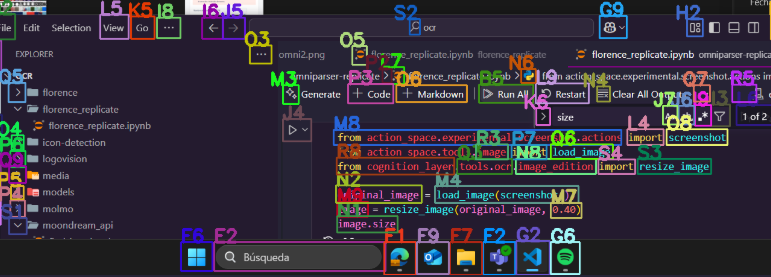
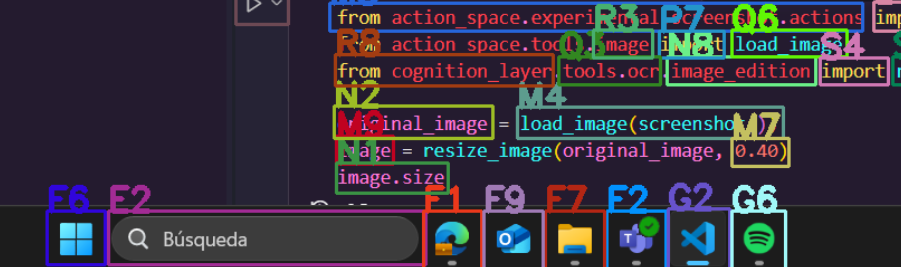
Added section for Theoretical Approximation

diff --git a/content/theory.tex b/content/theory.tex
@@ -1,2 +1,93 @@
 % !TEX root = ms.tex
 \chapter{Fundamento Teórico}
+
+\section{Maquina de Cognición-Ejecución (MCE)}
+
+Una \textit{Máquina de Cognición-Ejecución} (MCE) es un modelo computacional hipotético que opera sobre un sistema cognitivo con el objetivo de generar soluciones, compuestas por secuencias de acciones, a problemas bien definidos en un espacio formal. Este concepto se fundamenta en la idea de que la cognición puede ser modelada computacionalmente como un proceso de transformación entre representaciones abstractas de problemas y secuencias de acciones eficaces.
+
+\begin{itemize}
+    \item La MCE no presupone una arquitectura específica, sino una relación funcional entre problemas, soluciones y acciones.
+    \item El sistema cognitivo actúa como un mapeador entre interpretaciones de problemas y soluciones viables dentro de un conjunto estructurado.
+    \item La hipótesis de unicidad e irreductibilidad de la representación de problemas busca eliminar ambigüedades y redundancias en el espacio de entrada.
+\end{itemize}
+
+Sea $\mathbb{P}$ un conjunto infinito e hipotético de problemas. Cada problema $p \in \mathbb{P}$ es independiente y mutuamente exclusivo respecto de los demás, es decir,
+
+\[
+\forall p_i, p_j \in \mathbb{P}, \; p_i \ne p_j \Rightarrow \neg (p_i \equiv p_j)
+\]
+
+donde $\equiv$ denota equivalencia semántica bajo una interpretación cognitiva. Asumimos que cada problema $p$ está representado mediante una descripción única e irreducible, la cual no admite ambigüedad ni redundancia y es inconfundible con cualquier otro $p' \in \mathbb{P}$.
+
+Sea $\mathbb{A}$ un conjunto infinito e hipotético de acciones. Cada acción $a \in \mathbb{A}$ representa una interacción elemental que un sistema cognitivo puede realizar, ya sea con su entorno o consigo mismo.
+
+Sea $\mathbb{S}$ un conjunto hipotético de soluciones. Cada solución $s \in \mathbb{S}$ está compuesta por una secuencia finita y ordenada de acciones:
+
+\[
+s = (a_1, a_2, \dots, a_n), \; a_i \in \mathbb{A}, \; n \in \mathbb{N}^+
+\]
+
+Dicha secuencia es inmutable y única para la solución dada. El orden de las acciones es relevante, es decir, dos soluciones que contengan las mismas acciones en distinto orden se consideran distintas.
+
+Para cada problema $p \in \mathbb{P}$ existe al menos un subconjunto no vacío de soluciones $\mathbb{S}_p \subset \mathbb{S}$ tal que cada $s \in \mathbb{S}_p$ satisface completamente el problema $p$. Notamos esta relación como:
+
+\[
+s \in \mathbb{S} _p \iff s \in \mathbb{S} \land s \models p
+\]
+
+donde $\models$ denota que $s$ satisface (resuelve) el problema $p$ bajo la semántica del sistema cognitivo. No se considerarán en este modelo las soluciones parciales ni grados de satisfacción.
+
+\begin{itemize}
+    \item Esta relación establece una correspondencia semántica entre el espacio de problemas y el de soluciones.
+    \item El modelo asume que la existencia de una solución completa implica que el problema ha sido resuelto de forma definitiva.
+\end{itemize}
+
+Cabe destacar que, aunque un problema puede tener múltiples soluciones, estas
+son mutuamente excluyentes, pero equivalente en tanto cada secuencia de acciones difiere
+estructuralmente de las demás pero todas satisfacen el mismo problema:
+
+\[
+\forall s_i, s_j \in \mathbb{S}_p,\; s_i \ne s_j \Rightarrow s_i \equiv s_j
+\]
+
+Finalmente, asumimos la existencia de al menos una solución por cada problema:
+
+\[
+\forall p \in \mathbb{P}, \; \exists s \in \mathbb{S} _p \text{ tal que } s \models p
+\]
+
+
+Dados los elementos previamente definidos —el espacio de problemas $\mathbb{P}$, el espacio de acciones $\mathbb{A}$ y el espacio de soluciones $\mathbb{S}$—, es necesario introducir el concepto de \textit{base de conocimiento} para posibilitar su aplicación dentro de un sistema cognitivo.
+
+Denotamos por $C$ a una \textit{base de conocimiento}, entendida como una abstracción teórica que no especifica su contenido ni su estructura interna, pero que puede ser empleada por sistemas cognitivos para analizar un problema $p \in \mathbb{P}$ y generar una solución $s \in \mathbb{S}_p$.
+
+En este marco, se impone la siguiente condición sobre $C$:
+
+\begin{quote}
+    La base de conocimiento $C$ debe contener, representar o permitir el acceso a la información necesaria sobre el problema $p$ que haga posible que un sistema cognitivo encuentre al menos una solución $s \in \mathbb{S}_p$ tal que $s \models p$.
+\end{quote}
+
+Temporalmente, asumiremos que $C$ es una \textit{base de conocimiento perfecta}, lo que implica que:
+
+\[
+\forall p \in \mathbb{P}, \; \exists s \in \mathbb{S} \text{ tal que } s \models p \text{ y } s \text{ es derivable a partir de } C
+\]
+
+Cabe destacar que $C$ no necesariamente posee una representación simbólica explícita. En el caso de sistemas cognitivos implementados mediante redes neuronales artificiales, $C$ puede estar distribuida de manera implícita en los parámetros internos del modelo. Así, la información relevante no reside en estructuras legibles externamente, sino como propiedades emergentes del comportamiento del sistema.
+
+
+Con todos los elementos anteriores, podemos establecer una definición operativa para una \textit{Máquina de Cognición-Ejecución} (MCE). Una MCE es un sistema cognitivo que, dado un problema $p \in \mathbb{P}$, una base de conocimiento $C$, y un conjunto de acciones elementales $\mathbb{A}$, es capaz de generar una solución $s \in \mathbb{S}_p$ tal que $s$ satisface completamente el problema $p$.
+
+Formalmente, se define como una función computable:
+
+\[
+T: \mathbb{P} \times C \times \mathbb{A} \to \mathbb{S}
+\]
+
+tal que:
+
+\[
+\forall p \in \mathbb{P}, \; T(p, C, \mathbb{A}) = s \in \mathbb{S}_p \subseteq \mathbb{S}, \quad \text{con } s \models p
+\]
+
+Es decir, la MCE implementa un proceso de transformación cognitiva que mapea un problema bien definido al conjunto de acciones resolutivas adecuadas, utilizando conocimiento previo contenido (explícita o implícitamente) en $C$.

diff --git a/content/platform.tex b/content/platform.tex
@@ -152,7 +152,7 @@ utilizado por los módulos cognitivos.
 
 \begin{figure}[!h]
     \centering
-    \includegraphics[scale=0.5]{figs/icon-detection.png}
-    \caption{\small Detección y graficado de iconos detectados en pantalla usando OpenCV y Pillow. Fuente: Elaboración Propia}
+    \includegraphics[scale=0.4]{figs/icon-detection.png}
+    \caption{\small Detección de iconos detectados en pantalla usando OpenCV y Pillow. Fuente: Elaboración Propia}
     \label{fig:icon_detection}
 \end{figure}

diff --git a/content/style.tex b/content/style.tex
@@ -17,6 +17,8 @@
 \usepackage{mathptmx}
 \usepackage{transparent}
 \usepackage{soul}
+\usepackage{amssymb}
+
 
 \titleformat{\chapter}[hang]
     {\fontsize{30}{40}\scshape\sffamily}
